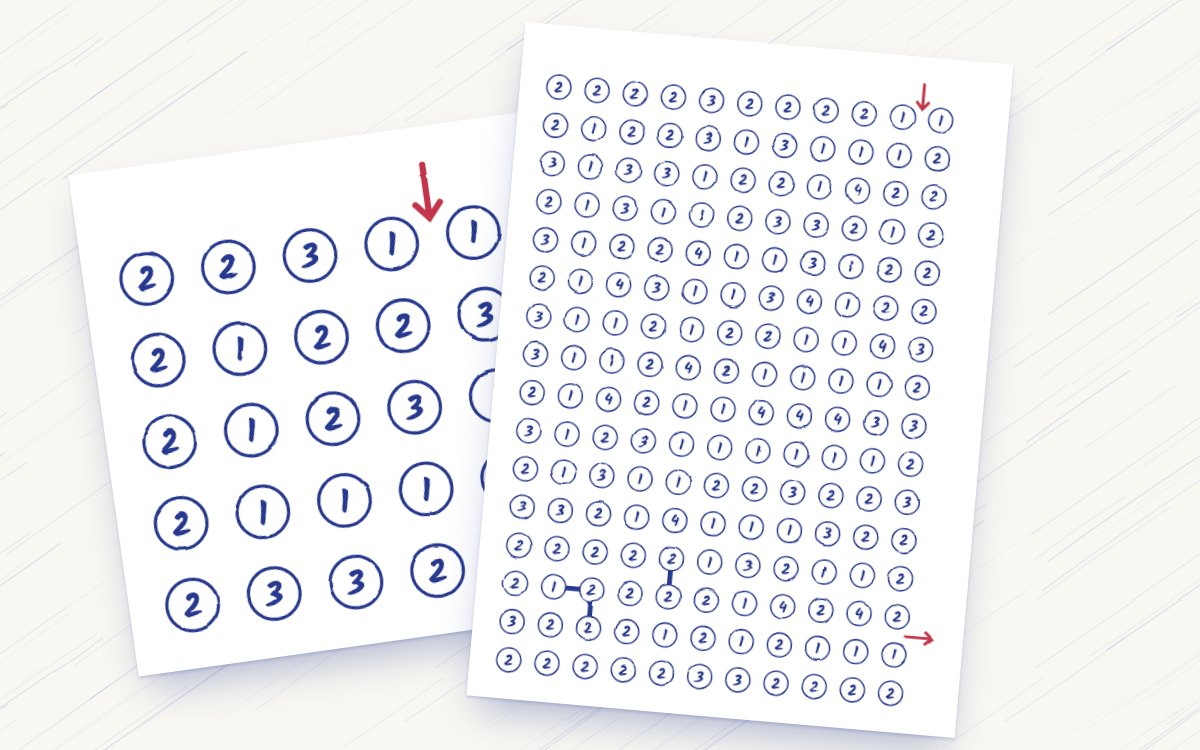
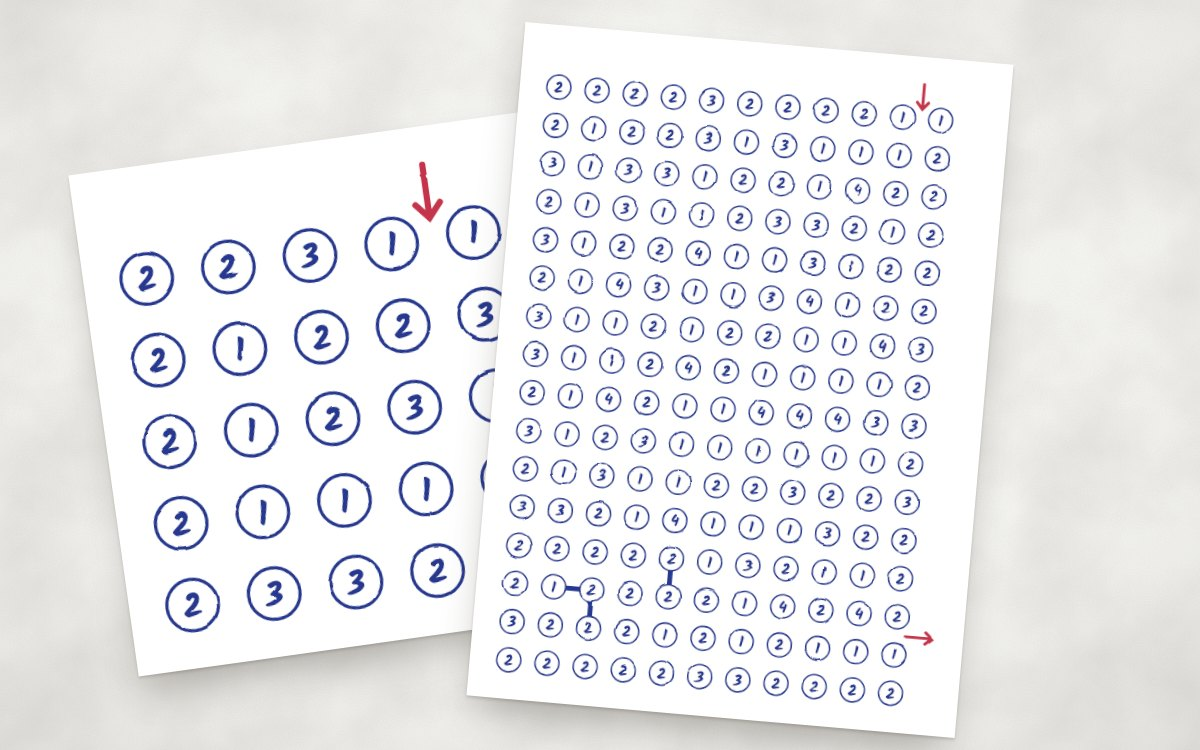
Inked style: paper background like Inked's, with a soft vignette

diff --git a/src/styles/global.css b/src/styles/global.css
@@ -1,21 +1,24 @@
 /* Site-wide tokens and base styles. Every page gets these through layouts/Base.astro.
    Look: ballpoint pen on white paper, after the game Inked. One ink color per game type
-   (each type sets --paper-ink on its board), pale pen streaks behind everything, and
+   (each type sets --paper-ink on its board), a paper background that darkens toward the
+   edges of the screen, and
    watercolor washes for every fill. Boards get a pen wobble (#pen, in Base.astro) and their
    own watercolor filter (src/lib/ink.ts). */
 :root {
-  --bg: #f8f7f2;          /* paper */
+  --bg: #f4f4f1;          /* paper */
   --panel: #ffffff;
   --ink: #26398f;         /* ballpoint blue */
-  --muted: #5d6698;
-  --line: #c3c9e4;
+  --muted: #5a5f86;
+  --line: #d3d0c9;
   --red: #c4364b;
   --blue: #26398f;
   --good: #2b7a52;
   --paper: #fffefa;       /* game boards and sheets are always white paper */
   --paper-ink: #26398f;   /* the pen a board is drawn with; game types pick their own */
-  --shadow: rgba(38, 57, 143, .2);
-  --streaks: url("/paper.svg");
+  --shadow: rgba(70, 62, 52, .22);
+  /* the page: paper texture under a soft vignette, fixed to the screen like a sheet under the camera */
+  --page: radial-gradient(ellipse 75% 70% at 50% 45%, transparent 45%, rgba(120, 112, 102, .16) 75%, rgba(95, 88, 80, .34) 100%) fixed,
+          url("/paper.svg") 0 0 / 512px 512px fixed;
 
   /* watercolor washes */
   --wash-red: #ef5a6a;
@@ -34,14 +37,16 @@
 }
 @media (prefers-color-scheme: dark) {
   :root:not([data-theme="light"]) {
-    --bg: #151a30; --panel: #1d2340; --ink: #d5dbff; --muted: #9aa3d6; --line: #36406e;
+    --bg: #1f1e1c; --panel: #2a2826; --ink: #d5dbff; --muted: #a7a8bd; --line: #44413c;
     --red: #ff7d8e; --blue: #a9b7ff; --good: #6fd39b; --paper: #fbfaf5; --shadow: rgba(0, 0, 0, .55);
+    --page: radial-gradient(ellipse 75% 70% at 50% 45%, transparent 45%, rgba(0, 0, 0, .35) 100%) fixed;
     color-scheme: dark;
   }
 }
 :root[data-theme="dark"] {
-  --bg: #151a30; --panel: #1d2340; --ink: #d5dbff; --muted: #9aa3d6; --line: #36406e;
+  --bg: #1f1e1c; --panel: #2a2826; --ink: #d5dbff; --muted: #a7a8bd; --line: #44413c;
   --red: #ff7d8e; --blue: #a9b7ff; --good: #6fd39b; --paper: #fbfaf5; --shadow: rgba(0, 0, 0, .55);
+  --page: radial-gradient(ellipse 75% 70% at 50% 45%, transparent 45%, rgba(0, 0, 0, .35) 100%) fixed;
   color-scheme: dark;
 }
 
@@ -50,7 +55,7 @@ img { max-width: 100%; }
 [hidden] { display: none !important; }
 body {
   margin: 0; overflow-x: clip; color: var(--ink);
-  background: var(--streaks) 0 0 / 600px 600px, var(--bg);
+  background: var(--page), var(--bg);
   font-family: var(--body); font-size: 17px; line-height: 1.5;
 }
 button:focus-visible, a:focus-visible, input:focus-visible { outline: 2px dashed var(--ink); outline-offset: 3px; }
@@ -62,8 +67,8 @@ button:focus-visible, a:focus-visible, input:focus-visible { outline: 2px dashed
   position: sticky; top: 0; z-index: 10;
   display: flex; align-items: center; justify-content: space-between; gap: 16px;
   padding: calc(env(safe-area-inset-top, 0px) + 10px) 16px 8px;
-  background: var(--streaks) 0 0 / 600px 600px, var(--bg);
-  border-bottom: 1.5px solid color-mix(in srgb, var(--ink) 35%, transparent);
+  background: var(--page), var(--bg);
+  border-bottom: 1.5px solid color-mix(in srgb, var(--line) 80%, transparent);
 }
 .topnav .brand {
   font-family: var(--display); font-size: 30px; line-height: 1.1; color: var(--ink); text-decoration: none;

diff --git a/puzzles/covers.py b/puzzles/covers.py
@@ -7,7 +7,7 @@ Number Line Maze: two mazes' number grids. Three Coats: three levels, unpainted.
 Round the Bend: two empty grids. Picture Squares: three blank grids with their clues.
 Escape Room: three of its printed sheets (the preview images in public/).
 Each board is drawn in its game type's ballpoint ink on a sheet of paper, fanned out on
-the site's streaked paper, then screenshotted with headless Chrome.
+the site's paper, then screenshotted with headless Chrome.
 """
 import html as htmllib
 import json
@@ -29,7 +29,7 @@ CHROME = "/Applications/Google Chrome.app/Contents/MacOS/Google Chrome"
 MAZE_INK, RYB_INK, RIVER_INK, PIC_INK, RED = "#26398f", "#2b2b30", "#2d6a45", "#a3343f", "#c4364b"
 FILL = {1: "#ed1c24", 2: "#fff200", 3: "#00aeef"}   # RYB uses the original game's primaries
 FONT = 'font-family="Kalam, cursive" font-weight="700"'
-PAPER_STREAKS = (ROOT / "public" / "paper.svg").as_uri()
+PAPER = (ROOT / "public" / "paper.svg").as_uri()   # the site's paper texture
 _ids = 0
 
 
@@ -203,9 +203,10 @@ def cover(sheets, out: Path):
     page = f"""<!doctype html><html><head><meta charset="utf-8">
     <link rel="stylesheet" href="https://fonts.googleapis.com/css2?family=Kalam:wght@700&display=block"><style>
       html, body {{ margin: 0; width: 1200px; height: 750px; overflow: hidden;
-        background: url("{PAPER_STREAKS}") 0 0 / 600px 600px, #f8f7f2; }}
+        background: radial-gradient(ellipse 80% 75% at 50% 45%, transparent 55%, rgba(120,112,102,.07) 82%, rgba(95,88,80,.14) 100%),
+          url("{PAPER}") 0 0 / 512px 512px, #f4f4f1; }}
       .sheet {{ position: absolute; padding: 18px; background: #fff;
-        box-shadow: 0 2px 3px rgba(38,57,143,.18), 0 22px 40px -12px rgba(38,57,143,.35); }}
+        box-shadow: 0 2px 3px rgba(70,62,52,.2), 0 22px 40px -12px rgba(70,62,52,.4); }}
       .sheet svg {{ filter: url(#pen); }}
       .sheet svg, .sheet img {{ display: block; width: 100%; height: 100%; }}
     </style></head><body>

diff --git a/ARCHITECTURE.md b/ARCHITECTURE.md
@@ -186,8 +186,9 @@ solution. To make a level, draw the picture in letters and pick a color per lett
 
 ## Look
 
-After the game Inked: ballpoint pen on white paper. The page has pale pen streaks
-(`public/paper.svg`), headings in Kaushan Script and everything else in Kalam.
+After the game Inked: ballpoint pen on white paper. The page is warm paper with a faint
+cloudy texture (`public/paper.svg`) that darkens toward the edges of the screen (`--page`
+in `global.css`); headings are in Kaushan Script and everything else in Kalam.
 - Each game type draws its boards in its own ink (`ink` in `src/games.ts`, set as
   `--paper-ink` on the page): blue for the escape room and mazes, black for Three
   Coats, green for Round the Bend, red for Picture Squares.
